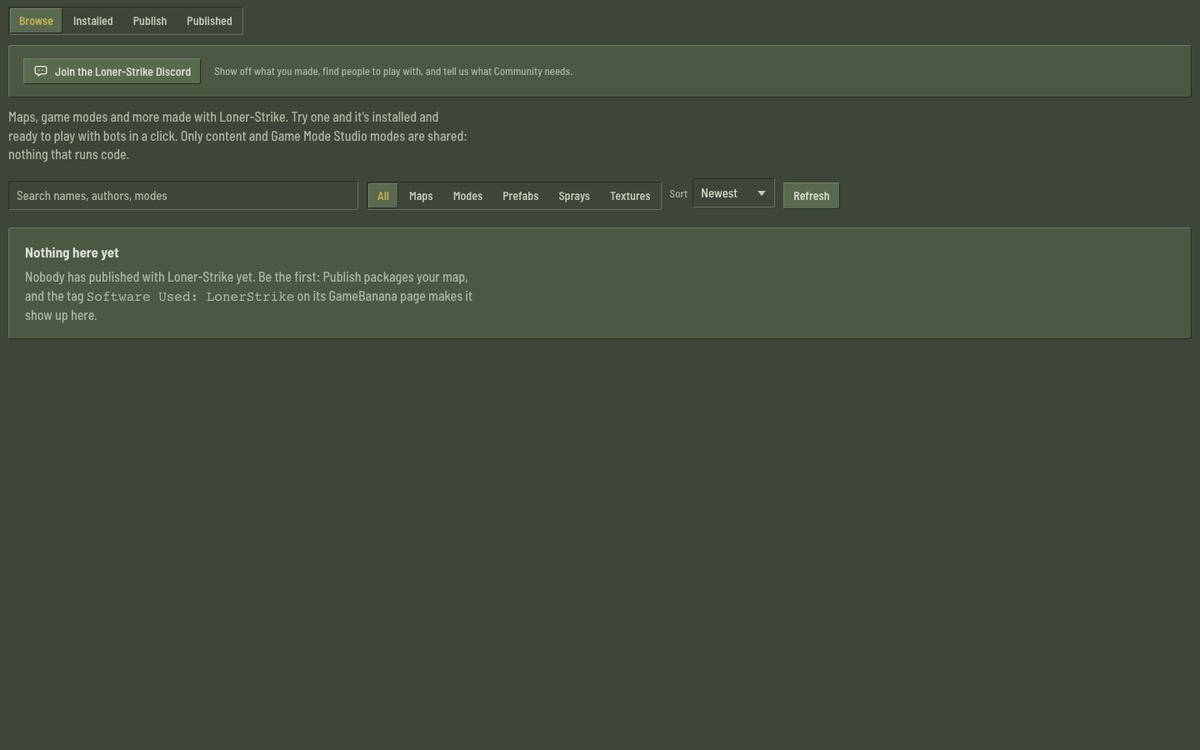
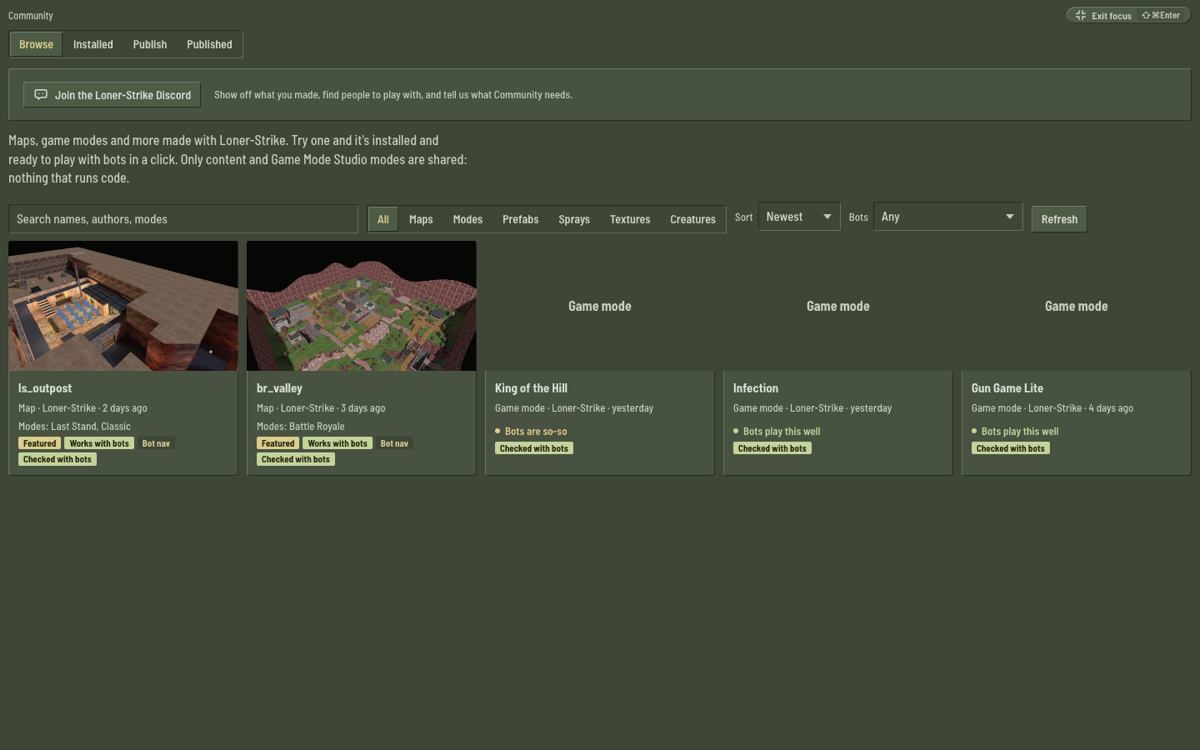
Site: Creature Studio and Community screenshots (sample cards from Loner-Strike's own maps and example modes, credited to Loner-Strike), and a second Textures & models shot with only the game's own models for the user to choose; Community cards say yesterday instead of 1 days ago

diff --git a/site/docs.html b/site/docs.html
@@ -1720,7 +1720,7 @@ lsctl logs        the last 100 console lines</code></pre>
   <h1>Community</h1>
   <p class="lead">Maps, modes, prefabs, sprays and textures made with Loner-Strike, under <b>Tools › Community</b>. Find one, try it in a click, play it with bots.</p>
   <figure class="shot">
-    <picture><source srcset="img/1.0/community.webp" type="image/webp"><img src="img/1.0/community.png" alt="The Community browser: search, a filter for maps, modes, prefabs, sprays and textures, and the Browse, Installed, Publish and Published tabs" width="1440" height="900" loading="lazy"></picture>
+    <picture><source srcset="img/1.0/community.webp" type="image/webp"><img src="img/1.0/community.png" alt="The Community browser: search and a filter for maps, modes, prefabs, sprays, textures and creatures, with cards for ls_outpost, br_valley, King of the Hill, Infection and Gun Game Lite, each with its badges and how bots play it" width="1440" height="900" loading="lazy"></picture>
   </figure>
   <h2 id="community-how">How it works</h2>
   <p>Files, pictures, likes and comments live on <a href="https://gamebanana.com">GameBanana</a>; a page with <b>Software Used: LonerStrike</b> shows up in Community. Loner-Strike adds badges, featured picks and moderation, and checks every packaged file is what it claims to be. A creation belongs to the GameBanana member who first uploaded it: others can't post an "update" to it, only a remix that credits it.</p>

diff --git a/site/index.html b/site/index.html
@@ -1014,7 +1014,7 @@ footer { padding-bottom: calc(48px + var(--radio-clear, 0px)); }
       <div class="window shots" data-set="share" style="--shot-ratio: 16 / 10">
         <div class="window-bar"><span></span><span></span><span></span>Loner-Strike: Community</div>
         <figure class="shots-view">
-          <button type="button" class="tour-stage" aria-label="Open this screenshot larger"><picture><source srcset="img/1.0/community.webp" type="image/webp"><img src="img/1.0/community.png" alt="Community: maps, modes, prefabs, sprays and textures made with Loner-Strike" width="1440" height="900" loading="lazy"></picture></button>
+          <button type="button" class="tour-stage" aria-label="Open this screenshot larger"><picture><source srcset="img/1.0/community.webp" type="image/webp"><img src="img/1.0/community.png" alt="Community: maps, modes, prefabs, sprays, textures and creatures made with Loner-Strike" width="1440" height="900" loading="lazy"></picture></button>
           <figcaption class="tour-caption" aria-live="polite"><span class="tour-cap">Community: maps, modes, prefabs, sprays and textures made with Loner-Strike</span> <span class="tour-count"></span></figcaption>
         </figure>
       </div>

diff --git a/app/ui/src/views/tools/community/communityApi.ts b/app/ui/src/views/tools/community/communityApi.ts
@@ -262,6 +262,6 @@ export const ago = (ts: number) => {
   const d = Math.max(0, Date.now() / 1000 - ts);
   if (d < 3600) return "just now";
   if (d < 86400) return `${Math.round(d / 3600)} h ago`;
-  if (d < 86400 * 60) return `${Math.round(d / 86400)} days ago`;
+  if (d < 86400 * 60) return Math.round(d / 86400) === 1 ? "yesterday" : `${Math.round(d / 86400)} days ago`;
   return new Date(ts * 1000).toLocaleDateString();
 };

diff --git a/docs/notes/Site.md b/docs/notes/Site.md
@@ -226,6 +226,12 @@ throwaway settings, so the compilers run; Tools pages without Focus are shot wit
 Still to take: `creatures` and `community` (held: creature sharing is changing them), the map simulator report
 and Replay, `studio-debugger` and `editor-compile` (each needs one sim; none started while the load was 45+).
 `demos` isn't retaken: the clone lists the user's own demo files.
+**Third pass:** `creatures` (Creature Studio, the zombie) and `community` (sample cards: Loner-Strike's own ls_outpost and
+br_valley and three of its example modes, credited to Loner-Strike, served to the page by the script; no made-up
+people; no "Includes N creatures" card, since no Loner-Strike example ships custom creatures to stage it honestly).
+`models-game` is a second version of `models` with only the game's own models in the list (the clone's downloaded
+models set aside for that shot): **the user picks** which goes on the site (`models` is the one wired now). The
+Community card's "1 days ago" now says "yesterday".
 How the shots are set up: Tools pages in Focus with the hints already seen; the editor imports the map through its
 own Import (the dev server answers the file dialog with a copy of the maps-src file), hides triggers and flies in a
 little; King of the Hill is framed on its round start and scoring chain; the Timeline is a "Hill Glow" pulse added to
